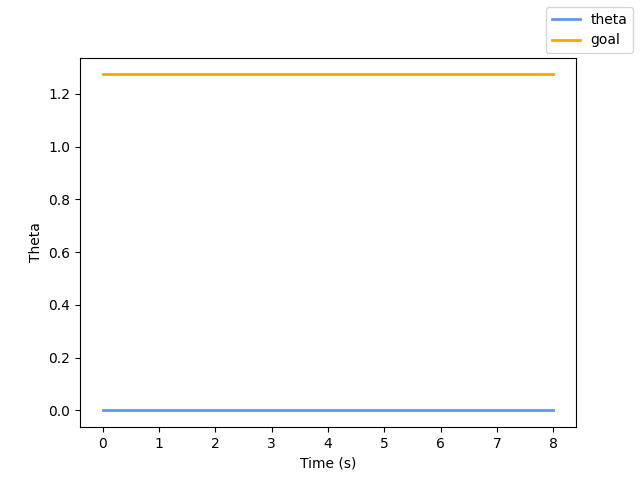
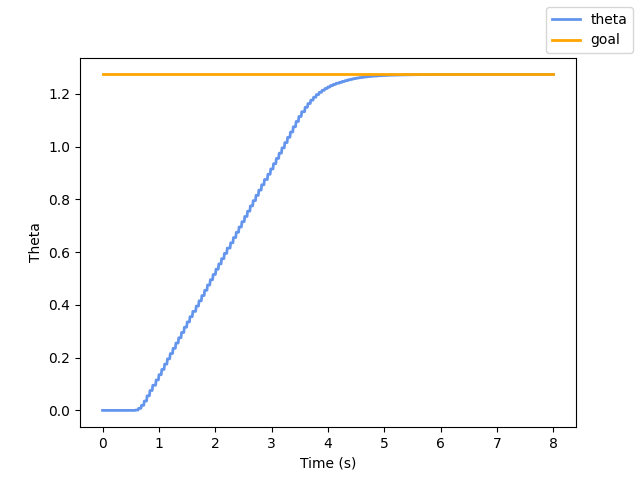
section 4 done

diff --git a/autonomy_repo/scripts/heading_controller.py b/autonomy_repo/scripts/heading_controller.py
@@ -10,7 +10,12 @@ from asl_tb3_msgs.msg import TurtleBotControl, TurtleBotState
 class HeadingController (BaseHeadingController):
     def __init__(self) -> None:
         super().__init__()
-        self.kp = 2.0
+        self.declare_parameter("kp", 2.0)
+
+    @property
+    def kp(self) -> float:
+        return self.get_parameter("kp").value
+        
 
     def compute_control_with_goal(self, state: TurtleBotState, goal: TurtleBotState) -> TurtleBotControl:
         err = wrap_angle(goal.theta - state.theta)
